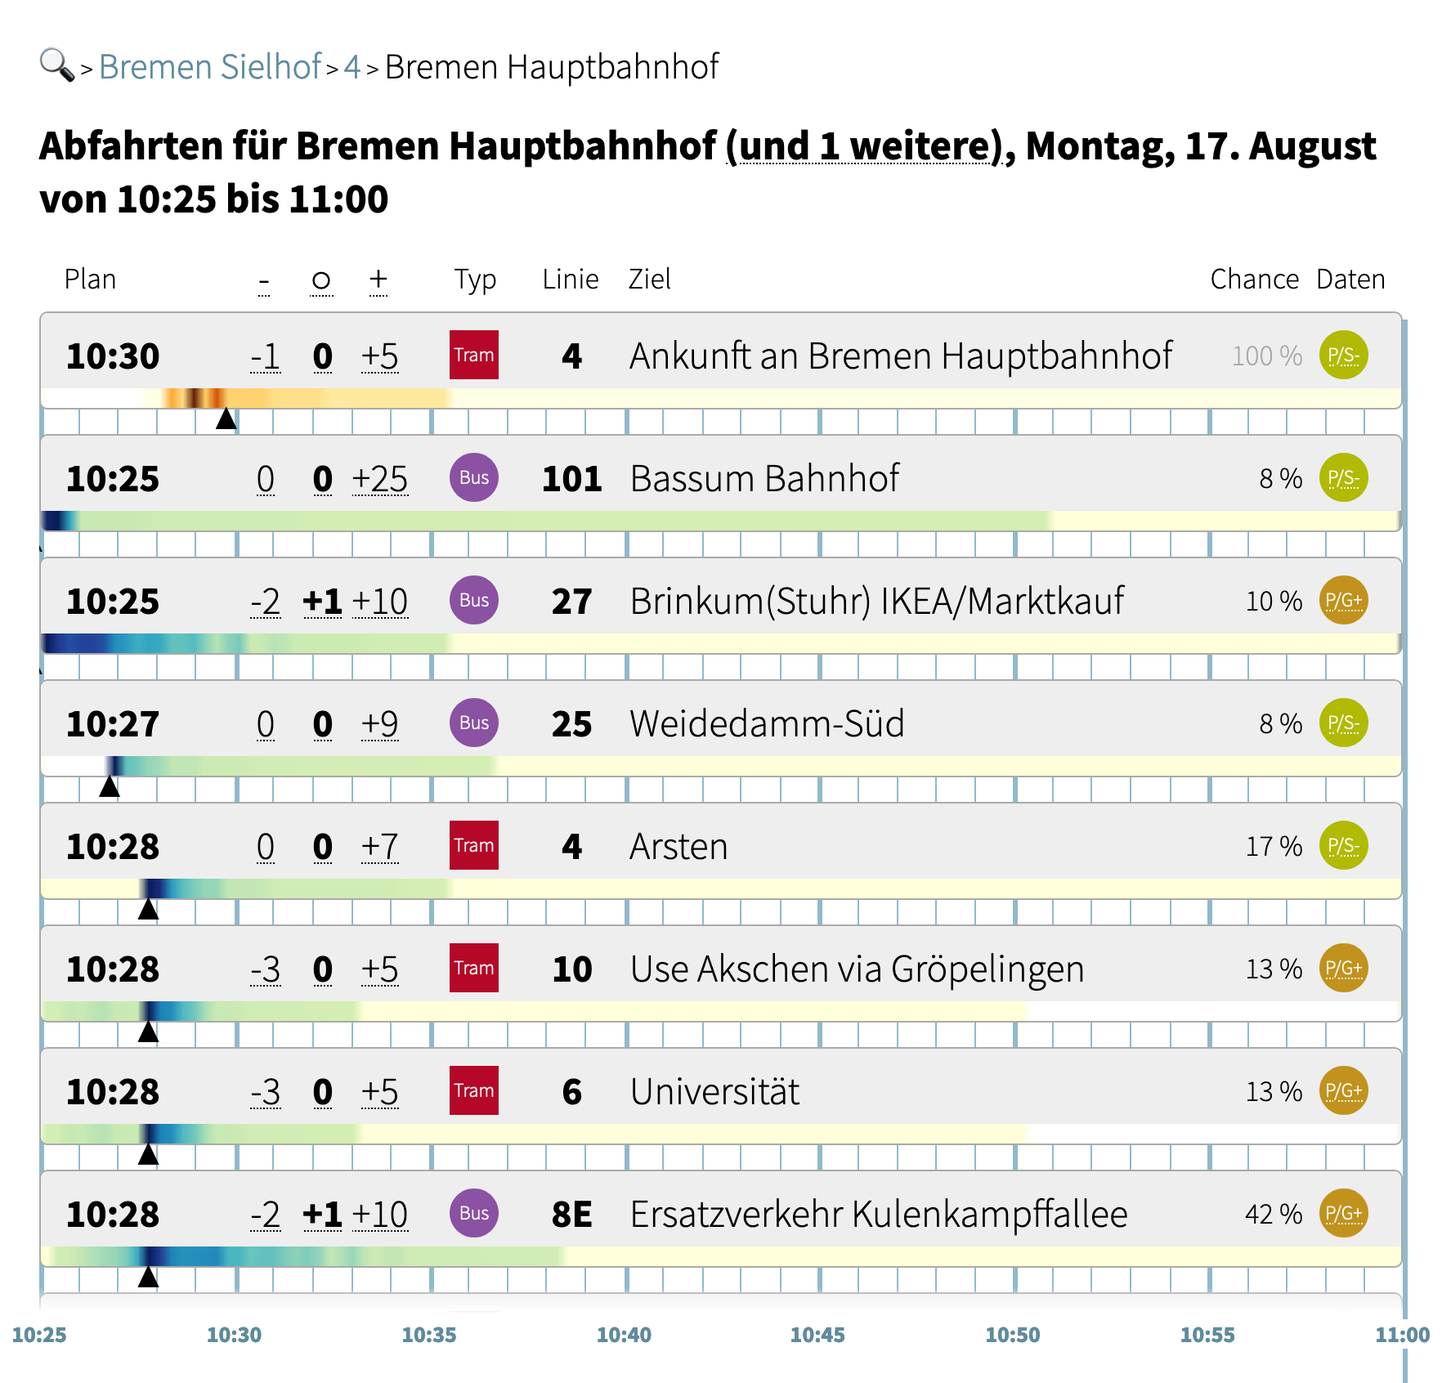
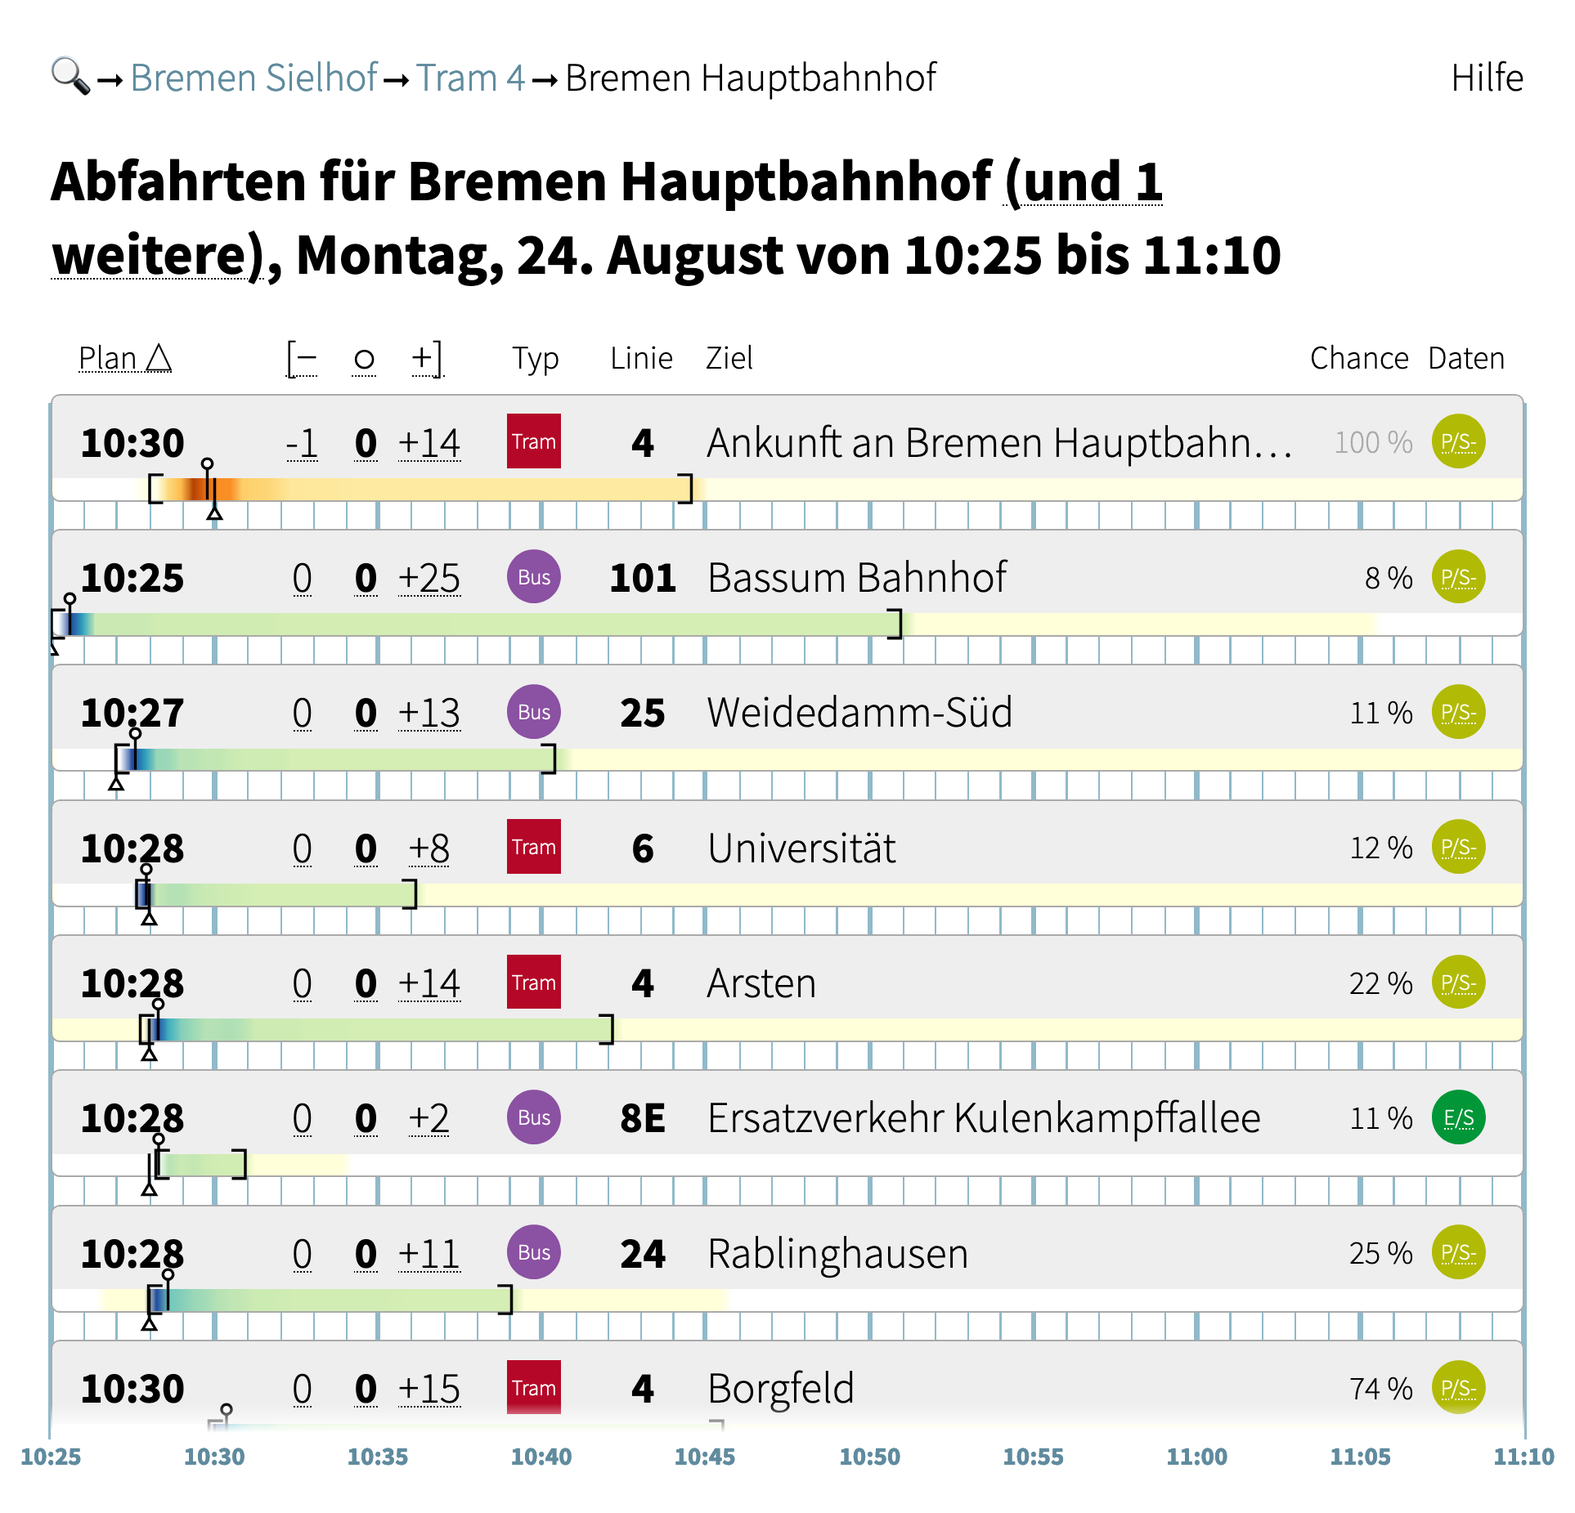
new draft for our own short  blogpost about demo week

diff --git a/_drafts/demoweek.md b/_drafts/demoweek.md
@@ -1,175 +1,51 @@
 ---
 layout: post
-title:  "Dystonse - Wahrscheinlichkeitsbasierte ÖPNV-Routenplanung"
-image: "/assets/demoweek/logo_dark_theme_transparent.svg"
+title:  "Demo Week - wir stellen unser Projekt vor"
 authors: "Lena Schimmel, Kirstin Rohwer"
-summary: "Der erweiterte Abfahrtsmonitor macht die Wahrscheinlichkeitsverteilung von Ankunfts- und Abfahrtszeiten im ÖPNV sichtbar und berechnet die Chance für erfolgreiche Umstiege."
-categories: demoweek
+categories: demoweek, prototypefund
 excerpt_separator: <!--more-->
 ---
 
-# Wir steigern das Vertrauen in den ÖPNV
+Die 6 Monate Förderzeit der PrototypeFund-Runde 7 sind fast vorbei, und es ist in den letzten Wochen ziemlich ruhig geworden hier auf unserem Blog. Das liegt nicht etwas daran, dass wir aufgegeben hätten, sondern ganz im Gegenteil – wir waren so sehr ins Programmieren vertieft, dass kaum noch Zeit blieb, etwas Abstand zu nehmen und mal wieder darüber zu berichten.
 
-> _Wann kommt endlich die Straßenbahn? Laut Fahrplan sollte sie schon längst da sein, aber sie ist noch nicht zu sehen. So langsam wirst du nervös - falls sie jetzt noch mehr als drei Minuten braucht, dann würdest du lieber den Bus nehmen, den du am Bussteig nebenan schon einfahren siehst. Wobei… der braucht halt eigentlich eh immer länger, du müsstest unterwegs umsteigen und der Umstieg ist dann auch oft ziemlich knapp. Also doch lieber weiter auf die Straßenbahn warten?_
+Es gibt zwar doch einen relativ langen Blogpost, den wir in den letzten Wochen geschrieben haben – aber der erscheint nicht hier, sondern auf der Website des Prototype Fund. Ab heute ist nämlich die **Demo Week**.
 
-Eine nervige Situation, die im Moment noch ziemlich oft vorkommt. Und wenn du mal in einer anderen Stadt unterwegs bist, hast du dort nicht mal dieses Gefühl dafür, welche Linien meistens pünktlich sind und welche nicht. Mit etwas Glück zeigt dir ein Abfahrtsmonitor die aktuellen Verspätungen an, aber das sagt dir auch nichts darüber, wie diese sich während der Fahrt wohl entwickeln werden und wie wahrscheinlich es ist, dass du deinen Umstieg schaffst.
+In den früheren Förderrunden gab es am Ende immer den **Demo Day**, eine Veranstaltung in Berlin, bei der alle geförderten Projekte präsentiert wurden - in Form von Vorträgen und/oder Live-Demos. Da wir uns aber immer noch mit einer Pandemie rumschlagen müssen, die viele Pläne über den Haufen wirft, war eine Live-Veranstaltung in Berlin, mit vielen Leuten in einem Innenraum, keine sinnvolle Option.
 
-**Warum kann mir nicht einfach eine Software diese Entscheidung abnehmen?**
+Stattdessen wurde die Vorstellung der Projekte, wie so viele Events in dieser Zeit, zu einer Online-Veranstaltung umgestaltet. Heute Abend wird die [Demo Week](https://demoweek.prototypefund.de/) mit einem Livestream eröffnet, und dann werden im Lauf der Woche alle Projekte auf der Website und in Social Media vorgestellt.
 
-Uns geht es selbst oft so - und deswegen ist die Idee zu Dystonse entstanden. Wir sind davon überzeugt, dass Software für ÖPNV-Routenplanung nicht mit einfachen, absoluten Zeiten arbeiten sollte, sondern mit einer Verteilung von Wahrscheinlichkeiten.
+Unsere neusten Bemühungen im Blogpost-Schreiben sind also in den Vorstellungstext geflossen, den ihr ab heute Abend [auf der Demo Week-Website](https://demoweek.prototypefund.de/projects/02-dystonse.html) lesen könnt. Dort erzählen wir, was bisher aus unserem Projekt geworden ist, und warum wir kurzfristig umgeschwenkt sind, um eine andere Frontend-Variante zu priorisieren.
 
-Unser Ziel - für dessen Erreichung wir uns [beim Prototype Fund beworben haben](https://prototypefund.de/project/dystonse-wahrscheinlichkeitsbasierte-oepnv-routensuche/) - ist eine vollständige Routenauskunft von A nach B, die schon während der Suche Verspätungen, Prognosen und Wahrscheinlichkeiten einbezieht. Bisher gab es das so noch nicht. Dass es prinzipiell möglich wäre, haben wir schon mit [unserem ersten Prototypen von 2019](https://dystonse.org/route) gezeigt, der damals so aussah:
+Die ursprünlich geplante, automatische Routensuche hätten wir in der spontan noch etwas kürzer gewordenen Restzeit sicher nicht mehr so schön hinbekommen, wie unsere aktuelle Frontend-Alternative:
 
-<a href="/assets/demoweek/prototype.jpg"><img title="Screenshot unseres ersten Prototyps von Ende 2019" src="/assets/demoweek/prototype.jpg" width="60%"></a>
+## Der erweiterte Abfahrtsmonitor
 
-Den Prototypen haben wir damals innerhalb weniger Tage entwickelt - entsprechend unvollständig und fehlerhaft ist er auch. Außerdem sind die Daten, auf denen das Verspätungsmodell dort basiert, eine extreme Vereinfachung, die in der Realität nicht sehr nützlich ist.
+Die automatische Routensuche ist hier zwar noch nicht drin, aber das Kern-Konzept von Dystonse lässt sich sehr gut erkennen: Die Wahrscheinlichkeitsverteilungen für Abfahrts- und Ankunftszeiten.
 
-Um die Routenauskunft diesmal verlässlich, realistisch und effizient umzusetzen, mussten wir nochmal bei Null anfangen und eine Menge Vorarbeit bei der Datensammlung und -aufbereitung leisten – mehr dazu folgt weiter unten. Die neue Version unserer Routensuche ist daher noch nicht fertig – wohl aber ein Vorgeschmack darauf.
+<style>
+.dystonse-image {
+   width: 49%;
+}
 
-Pünktlich zur Demo Week präsentieren wir unseren **erweiterten Abfahrtsmonitor**. Anders als die leuchtenden Anzeigen, die über manch einer Haltestelle hängen, zeigt er dir nicht nur die Abfahrten an deiner Start-Haltestelle an sondern mit einem Klick auch den weiteren Verlauf der Linie und wie sich ihre Pünktlichkeit voraussichtlich entwickeln wird. Von da aus kannst du den den Halt auswählen, an dem du aus- oder umsteigst, und Klick für Klick selbst deine Route zusammenstellen. Der Monitor zeigt dir jeweils an, wann du ungefähr ankommen wirst und wie wahrscheinlich die Umstiege sind.
+@media (max-width: 844px) {
+  .dystonse-image {
+    width: 100%;
+  }
+}
+</style>
 
-<a href="/assets/demoweek/abfahrten.png"><img title="Screenshot 1" src="/assets/demoweek/abfahrten.png" width="45%"></a>
-<a href="/assets/demoweek/halte.png"><img title="Screenshot 2" src="/assets/demoweek/halte.png" width="45%"></a>
+<a href="/assets/demoweek/abfahrten.png"><img class="dystonse-image" title="Screenshot 1" src="/assets/demoweek/abfahrten.png"></a>
+<a href="/assets/demoweek/halte.png"><img class="dystonse-image" title="Screenshot 2" src="/assets/demoweek/halte.png"></a>
 
-Hier kannst du den erweiterten Abfahrtsmonitor für den **Verkehrsverbund Bremen/Niedersachsen** gleich ausprobieren:
+Genauere Erklärungen sparen wir uns an dieser Stelle und verweisen auf die Hilfe-Seite, die in der Abfahrtsmonitor-Website enthalten ist. Dort wird erläutert, wie die Anzeige zu lesen ist und was das alles bringen soll.
+
+Wenn ihr unseren Abfahrtsmonitor (mit Daten, wie üblich, aus dem Verkehrsverbund Bremen/Niedersachsen) direkt ausprobieren wollt, findet ihr ihn unter [diesem Link](https://monitor.dystonse.org) oder gleich hier:
 
 {% raw %}
 <iframe frameborder="no" border="0" marginwidth="0" marginheight="0" width="100%" height="140" src="https://monitor.dystonse.org/embed"></iframe>
 {% endraw %}
 
-<img title="Hinweis darauf, dass das weiter oben kein Bild ist. Das hier ist ein Bild." src="/assets/demoweek/pfeil_pink.png">
-
-_(falls über dieser Zeile keine Suchmaske angezeigt wird, kannst du auch [den Monitor direkt aufrufen](https://monitor.dystonse.org/))_
-
-## Erweiterter Abfahrtsmonitor vs automatische Routensuche
-
-Letztlich wollen wir alle wichtigen Infos in einer Anwendung zusammen bringen:
-
- * Die Umsteigemöglichkeiten im **Liniennetz**
- * Die Abfahrtszeiten laut **Fahrplan**
- * Die **aktuellen Echtzeit-Daten** von einzelnen Fahrzeugen
- * Und eben diese Intuition, die man als Mensch nur durch viel Erfahrung entwickeln kann. Wir nennen sie das **Verspätungsmodell**, also das Wissen darüber, welche Linien dazu neigen, besonders pünktlich oder unpünktlich zu sein, wo sie ihre Verspätung wieder aufholen etc.
-
-Klassische Routensuchen und Abfahrtsmonitore berücksichtigen diese Infos teilweise gar nicht oder nur eingeschränkt:
-
-<div style="overflow-x: scroll;">
-<table>
-<thead>
-<tr>
-<th></th>
-<th>Linien&shy;netz</th>
-<th>Fahr&shy;plan&shy;zeiten</th>
-<th>Aktuelle Echt&shy;zeit&shy;daten</th>
-<th>Verspätungs&shy;modell</th>
-</tr>
-</thead>
-<tbody>
-<tr>
-<td><b>Klassischer Monitor</b></td>
-<td style="background-color:#fdd;">Nein</td>
-<td style="background-color:#aea;">Ja</td>
-<td style="background-color:#aea;">Ja</td>
-<td style="background-color:#ffd;">Teils</td>
-</tr>
-
-<tr>
-<td><b>Klassische Routen&shy;suche</b></td>
-<td style="background-color:#aea;">Ja</td>
-<td style="background-color:#aea;">Ja</td>
-<td style="background-color:#ffd;">Teils</td>
-<td style="background-color:#ffd;">Teils</td>
-</tr>
-
-<tr>
-<td><b>Dystonse Monitor</b></td>
-<td style="background-color:#ffd;">Teils</td>
-<td style="background-color:#aea;">Ja</td>
-<td style="background-color:#aea;">Ja</td>
-<td style="background-color:#aea;">Ja</td>
-</tr>
-
-<tr>
-<td><b>Dystonse Routen&shy;suche</b></td>
-<td style="background-color:#aea;">Ja</td>
-<td style="background-color:#aea;">Ja</td>
-<td style="background-color:#aea;">Ja</td>
-<td style="background-color:#aea;">Ja</td>
-</tr>
-</tbody></table>
-
-</div>
-
-Unser erweiterter Abfahrtsmonitor verwendet zwar alles davon – aber die Auswahl, welcher Umstieg nun der bessere ist, musst du hier im Gegensatz zur Routensuche noch selbst treffen. Mit der Visualisierung der Wahrscheinlichkeiten geben wir dir dazu möglichst viel Info an die Hand, um diese Entscheidung besser fundiert zu treffen.
-
-In der Zeit nach der Demo Week werden wir die automatische Routensuche weiterentwickeln. Sie basiert auf der gleichen Technik und Datenbasis wie der erweiterte Abfahrtsmonitor, aber präsentiert dir nicht nur Informationen, sondern erstellt daraus automatisch die beste(n) Reisemöglichkeit(en). Natürlich wird es dazu eine große Ankündigung (z. B. auf [Twitter](https://twitter.com/dystonse/)) und noch den einen oder anderen [Blogpost](https://blog.dystonse.org/) geben.
-
-## Was alles dahinter “stackt”
-
-Der Abfahrtsmonitor und später die Routensuche sind nur der kleine Teil von Dystonse, der für alle Nutzer*innen sichtbar ist – der größte Teil des Dystonse-Software-Stacks bleibt “hinter den Kulissen”: Hier werden die Daten gesammelt, die wir für das Verspätungsmodell brauchen und das Modell wird berechnet.
-
-### Unser zentrales Datenformat: Wahrscheinlichkeits-Kurven
-
-Wie so ein Verspätungsmodell aussieht, haben wir schon einmal ausführlich in unserem Blogpost ["Um die Kurve gedacht"](https://blog.dystonse.org/analysis/2020/06/10/kurven.html) erklärt. Kurz gesagt: die Verteilung der Abfahrts- und Ankunftszeiten wird in Form von Kurven zusammengefasst, in denen jeder Zeit eine Wahrscheinlichkeit zugeordnet ist, wie häufig diese Zeit tatsächlich zutrifft.
-
-Bei den Linien, von denen wir viele Echtzeitdaten aufgezeichnet haben, können wir nicht nur eine Kurve für jede Haltestelle berechnen, sondern auch die Abhängigkeit zwischen verschiedenen Haltestellen und den Einfluss vorheriger Verzögerungen. Also z. B. “wenn diese Straßenbahn an Haltestelle Nr. 20 mit 220 Sekunden Verspätung abfährt, wie verteilt sich dann die Ankunftszeit an Haltestelle Nr. 45”. Das sieht dann so aus:
-
-<a href="/assets/demoweek/curve_20_to_45.svg"><img title="Straßenbahn Linie 4 nach Arsten - Verspätungsentwicklung von #20 'Bremen Bürgermeister-Spitta-Allee' bis #45 'Bremen Kattenturm-Mitte'" src="/assets/demoweek/curve_20_to_45.svg"></a>
-
-Wer genauer wissen will, wie diese Grafik zu lesen ist, findet alle Infos dazu in unserem [Blogpost](https://blog.dystonse.org/analysis/2020/06/10/kurven.html).
-
-Im Idealfall ist die Kurve sogar noch nach der Tageszeit aufgeschlüsselt. Bei den Linien, für die wir weniger Echtzeitdaten gesammelt haben, sind die Kurven etwas weniger genau, damit die Datengrundlage nicht zu klein ist. Dann wird zum Beispiel die Tageszeit nicht berücksichtigt, oder es werden nicht nur Daten einer bestimmten Straßenbahnlinie genutzt, sondern alle Straßenbahnen zusammengefasst.
-
-### Datensammlung
-
-Um diese Kurven berechnen zu können, brauchen wir natürlich erstmal eine Menge Daten. Davon gibt es zwei Sorten: Fahrpläne und Echtzeit-Updates.
-
-Fahrpläne sind prinzipiell leicht verfügbar, und zwar seit Anfang 2020 für ganz Deutschland als Open Data. Über die Schwierigkeit, passende Echtzeitdaten zu bekommen und diese dann auch zu verwenden, haben wir in den ersten Wochen unserer Förderzeit bereits [einen eigenen Blogpost](https://blog.dystonse.org/opendata/2020/03/13/datensammlung.html) geschrieben.
-
-Zum Glück haben wir mit dem VBN einen Anbieter gefunden, der selbst nicht nur Echtzeit-Updates mit einer echten Open-Data-Lizenz, sondern auch die Fahrpläne mit den passenden IDs [zur Verfügung stellt](https://www.vbn.de/service/entwicklerinfos/).
-
-Der erste Teil unseres Software-Stacks sind also zwei `collect`-Skripte, die regelmäßig die Fahrplan- und Echtzeitdaten aus den VBN-Quellen herunterladen. Danach werden die für unsere Anwendung relevanten Daten von der `import`-Komponente zusammengefügt und in einer Datenbank gespeichert - diese ist deutlich schneller durchsuchbar als die Rohdaten.
-
-### Analysen
-
-Sobald wir genügend Echtzeit-Updates gesammelt und mit dem richtigen Fahrplan verknüpft haben, können wir mit den Analysen beginnen. Dieser `analyse`-Schritt erzeugt das Verspätungsmodell (also die Kurven, die oben schon beschrieben wurden) je nach vorhandener Datenmenge so spezifisch wie möglich, so allgemein wie nötig.
-
-### Prognosen
-
-Um diese Analysen dann auch nutzen zu können, ordnen wir jeder zukünftigen Fahrt (im aktuellen Testbetrieb reicht unser Monitor bis ca. eine Woche in die Zukunft) die passenden Kurven zu. So lange im Voraus können wir natürlich nur sehr allgemeine Vorhersagen treffen. Sobald Echtzeitdaten zu einem Fahrzeug eintreffen, aktualisieren wir damit laufend all seine Prognosen.
-
-Diese werden dann z. B. vom Abfahrtsmonitor (und später von der Routensuche) direkt für einen bestimmten Zeitraum aus der Datenbank abgerufen.
-
-Im Prinzip ist die Berechnung dieser Prognosen ein eigener `predict`-Schritt in der Datenverarbeitung, wie er im nachfolgenden Diagramm auch zu sehen ist. In Wirklichkeit finden diese Berechnungen bei uns schon im `import`-Schritt statt, so dass jede Echtzeit-Datei nur einmal verarbeitet wird.
-
-<a href="/assets/demoweek/stack_dark_theme.svg"><img title="Übersicht über unseren Software-Stack" src="/assets/demoweek/stack_dark_theme.svg"></a>
-
-Bei `collect` handelt es sich um ein paar Shell-Skripte. Die Komponenten `import`, `analyse`, `predict` und auch `monitor` sind in der Sprache Rust geschrieben und sind Module innerhalb unseres Universalwerkzeugs `dystonse-gtfs-data` ([zum Code](https://github.com/dystonse/dystonse-gtfs-data)). Sie haben also alle die selbe Codebasis, aber laufen als eigenständige Prozesse. Außerdem muss eine [MySQL](https://www.mysql.com/)-Datenbank laufen, auf welche die anderen Komponenten zugreifen, und ein gemeinsam genutztes Verzeichnis für die Dateiablage vorhanden sein. Zusammen mit [phpMyAdmin](https://www.phpmyadmin.net/), das wir zur Pflege der Datenbank verwenden, erreicht der Software-Stack also einiges an Komplexität.
-
-### Automatisierung und einfache Installation
-
-Um die Installation des ganzen Software-Stacks möglichst einfach zu gestalten, haben wir die Abläufe mit Hilfe von [Docker](https://docs.docker.com/get-started/overview/) und [Docker Compose](https://docs.docker.com/compose/) automatisiert.
-
-Dabei definieren [Konfigurationsdateien](https://github.com/dystonse/dystonse-docker), welche Komponenten gebaut und gestartet werden müssen und wie diese miteinander interagieren. Andere Dateien beschreiben jeweils die Konfiguration einer einzelnen Komponente. Mit wenigen Änderungen in einer Konfigurationsdatei könnten wir so z. B. weitere Datenquellen hinzufügen und die Installation auf einem neuen Server braucht nur noch wenig Handarbeit. Außerdem können wir dadurch die einzelnen Komponenten einfach getrennt voneinander updaten, debuggen und überwachen.
-
-## Erfahrungen und Ausblick
-
-Wir haben nun schon fast ein halbes Jahr Förderzeit hinter uns, in der wir sowohl ungeplante Schwierigkeiten als auch überraschende Erfolge erlebt und vor allem viel gelernt haben. Vom Lernen einer wunderbaren neuen [Programmiersprache](https://www.rust-lang.org/) über Abenteuer mit Datenbankindizes über Gigabytes von Echtzeidaten gab es eine Menge Herausforderungen. Am Ende des Tages (d. h. oft auch erst in den frühen Morgenstunden) macht es einfach überglücklich, zu sehen, wie tausende Datensätze innerhalb von Sekunden durch unsere Softwarekomponenten fließen und in der Datenbank landen. Oder auch, dass der [heimische Verkehrsbetrieb](http://www.bsvg.net/startseite.html) seit Kurzem auch Echtzeitdaten liefert – sogar für den Bus, der quasi Zuhause vorbei fährt.
-
-Bis dahin war es aber auch ein langer Weg. So haben z. B. die Vorbereitung der Datensammlung, das Einrichten der Datenbank und die ersten Analysen _viel_ länger gebraucht, als wir vermutet hatten - bei so großen Datenmengen ist es eben manchmal doch nötig, schon frühzeitig viel Aufwand in Performance-Optimierung zu stecken.
-
-Und natürlich hat die Covid-19-Pandemie auch für uns einiges durcheinander gewirbelt. Anders als die meisten geförderten Projekte hatten wir immerhin den Luxus, sowieso im gemeinsamen Home Office Seite an Seite zu arbeiten.
-
-Der ganze Themenbereich “ÖPNV” erscheint in diesen Zeiten generell in einem ganz anderen Licht: Fahrgäste sorgen sich gar nicht mehr so sehr darum, ob der Bus zu spät kommt, sondern eher um die Ansteckungsgefahr, und Anreize für mehr ÖPNV-Nutzung scheinen gerade sehr deplatziert. Das erschwert auch User-Befragungen, die wir daher aufgeschoben haben.
-
-Aber die Pandemie geht hoffentlich bald vorbei und Vertrauen in den ÖPNV wird noch lange gebraucht, um Mobilität in Zeiten des Klimawandels zu ermöglichen. Also bleiben wir dran und entwickeln die geplante Routensuche auch nach dem Ende der Förderung noch weiter.
-
-Die Umstellung vom Demo Day in Berlin zur Demo Week im Internet hat gegen Ende auch noch für zusätzliche Zeitknappheit gesorgt. Aber wir sind flexibel und ganz im Sinne des Prototype-Fund-Learnings [„Brauchst du dieses Feature wirklich?“](https://prototypefund.de/12-learnings/) haben wir – mit Hilfe eines geförderten Coachings – ein neues Konzept für die Präsentation in Form des erweiterten Abfahrtsmonitors statt der Routensuche erarbeitet.
-
 Wir freuen uns sehr, dass wir in der Förderrunde 7 dabei sein durften. Danke an das Prototype-Fund-Team für die gute Betreuung, und an das BMBF und das DLR dafür, dass sie dieses Projekt möglich gemacht haben!
 
-Außerdem haben wir während der Förderzeit eine [aktive Community](https://twitter.com/dystonse/following) gefunden - nicht nur innerhalb der Projekte in Runde 7, sondern auch in der großen “Nerd-Bubble” zu unserem Themengebiet.
-
-Ein Dank geht hier auch an den [Verkehrsverbund Bremen/Niedersachsen](https://www.vbn.de/), der unser Projekt so begeistert aufgenommen hat. Wir freuen uns, wenn sich andere Verkehrsverbünde davon inspirieren lassen und in Zukunft offen für Open-Data-Anwendungen sind - und mit diesem Wunsch sind wir Teil einer engagierten Community, die sich für Open Data in allen Bereichen der Mobilität einsetzt. Als Beispiel ist hier das [Open Transport Meetup](https://hackmd.okfn.de/opentransportmeetup) zu nennen, bei dem sich Entwickler\*innen und andere Interessierte regelmäßig austauschen und vernetzen. Außerdem konnten wir in unserer Arbeit auf viele Open-Source-Grundlagen zurückgreifen, die von der Community entwickelt wurden und werden – z. B. das Paket [gtfs-structures](https://github.com/dystonse/gtfs-structure) sowie diverse Tools und Erfahrungswerte von [Jannis Redmann](https://github.com/derhuerst/).
-
-Wenn ihr wissen wollt, wie es mit Dystonse weitergeht, schaut gerne auf [unserem Blog](https://blog.dystonse.org) vorbei - dort wird es demnächst noch viele spannende Artikel geben – und  [folgt uns auch gerne auf Twitter](https://twitter.com/dystonse).
+Übrigens: Die Prototype-Fund-Runde ist zwar fast vorbei, aber mit Dystonse geht es natürlich auch danach noch weiter. Also freut euch auch in Zukunft auf weitere Updates hier im Blog und in unserer Software!
 
